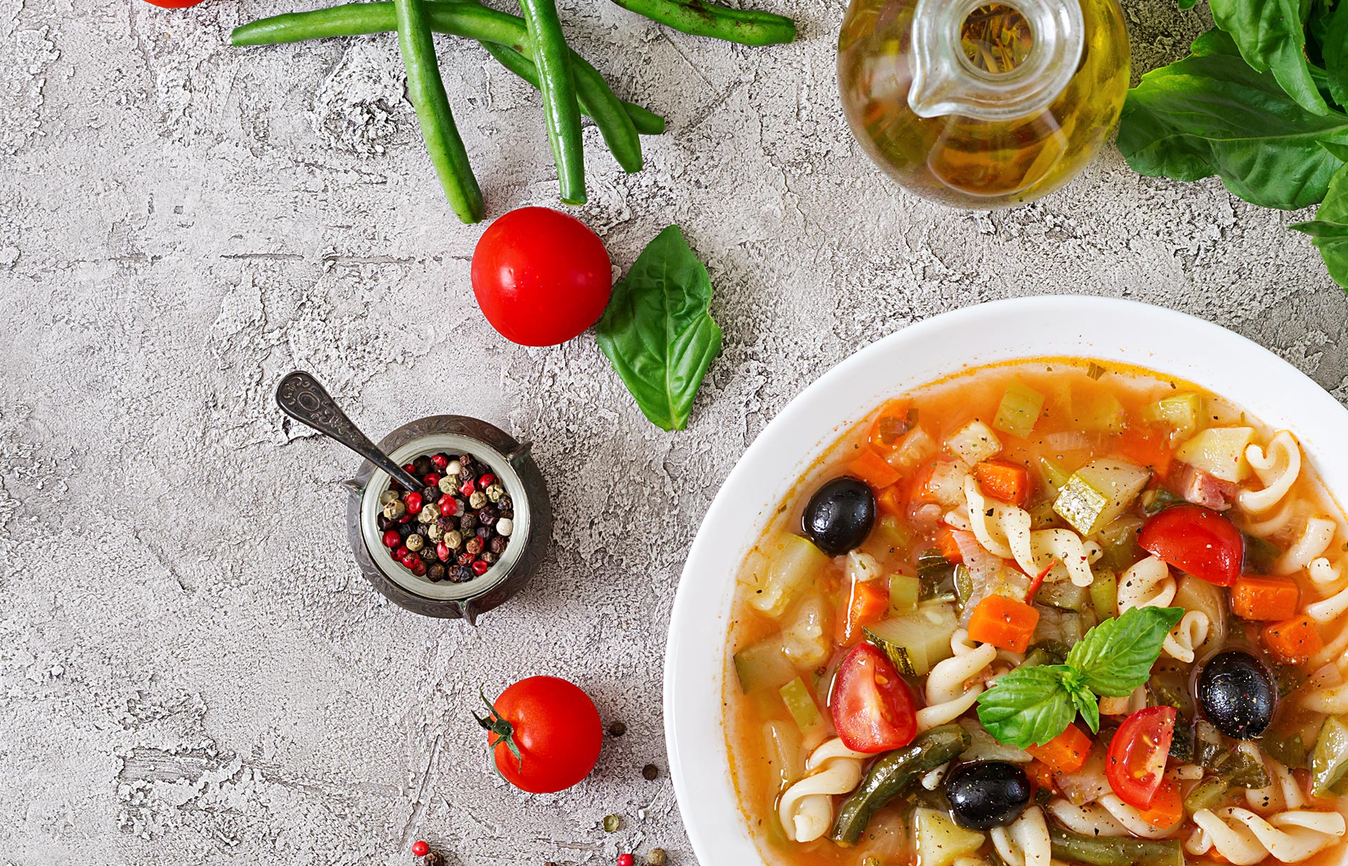
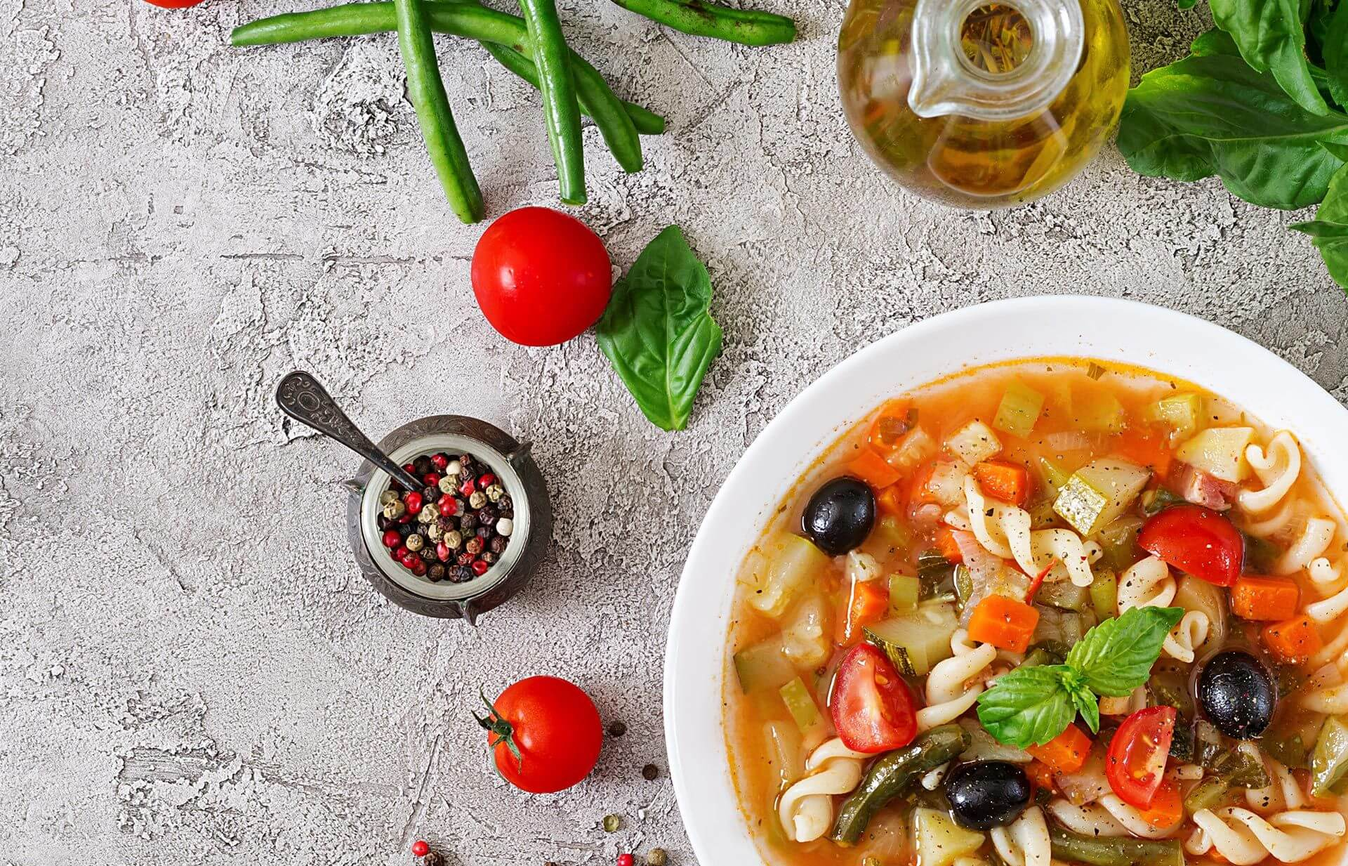
removed whatsapp plugin + compressed images

diff --git a/_layouts/default.html b/_layouts/default.html
@@ -20,7 +20,7 @@
         <script src="{{site.baseurl}}/assets/js/production.min.js"></script>
         
         <!-- WhatsHelp.io widget -->
-        <script type="text/javascript">
+        <!-- <script type="text/javascript">
             (function () {
                 var options = {
                     whatsapp: "+91=9810861060", // WhatsApp number
@@ -32,7 +32,7 @@
                 s.onload = function () { WhWidgetSendButton.init(host, proto, options); };
                 var x = document.getElementsByTagName('script')[0]; x.parentNode.insertBefore(s, x);
             })();
-        </script>
+        </script> -->
         <!-- /WhatsHelp.io widget -->
     </body>
 </html>
